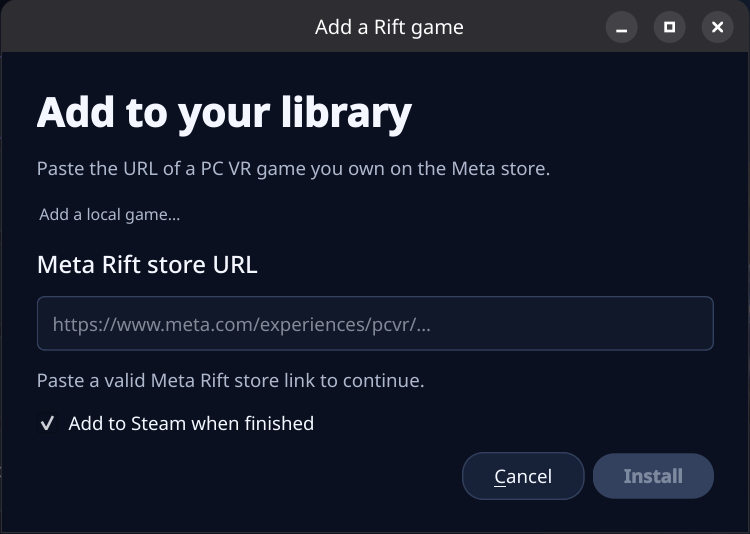
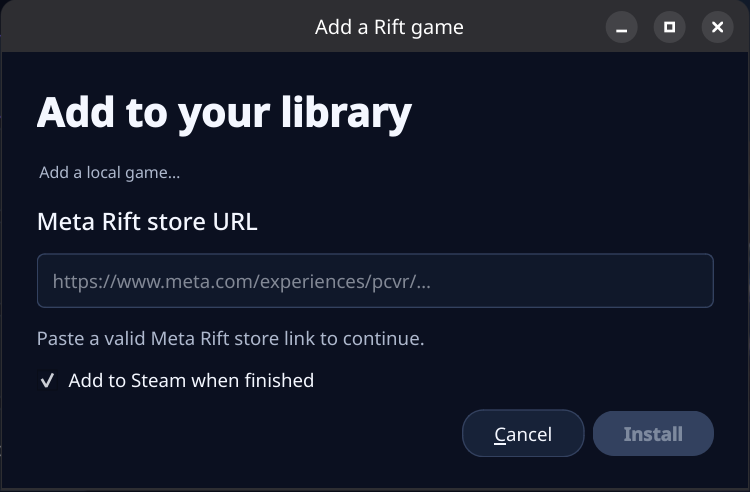
Simplify the Add Game dialog

diff --git a/src/riftlift/gui_qt.py b/src/riftlift/gui_qt.py
@@ -409,11 +409,6 @@ class Window(QtWidgets.QMainWindow):
         l.setContentsMargins(26, 24, 26, 24)
         l.setSpacing(12)
         l.addWidget(self.label("Add to your library", "game"))
-        l.addWidget(
-            self.label(
-                "Paste the URL of a PC VR game you own on the Meta store.", "muted"
-            )
-        )
         local = self.button(
             "Add a local game…", lambda: (d.reject(), self.local_dialog())
         )
